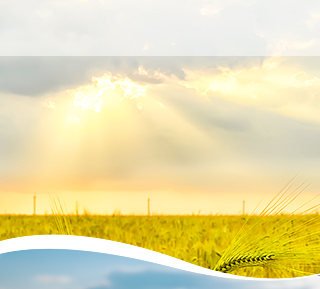
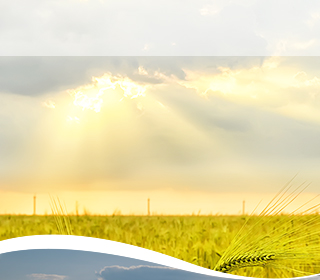
alteração bg mobile

diff --git a/css/screen.css b/css/screen.css
@@ -3,13 +3,13 @@
         background-image: url('https://siapagro.com/img/home_siap_01_mobile.jpg');
     }
     .txt-sobre{
-        background-image: url('https://siapagro.com/img/home_siap_02.jpg');
+        background-image: url('https://siapagro.com/img/home_siap_02_mobile.jpg');
     }
     .fazenda-foto{
         background-image: url('https://siapagro.com/img/home_siap_03_mobile.jpg');
     }
     #sobre-fazenda{
-        background-color: #37493e !important;
+        background-color: #36473d !important;
     }
 
 }
@@ -36,14 +36,14 @@
         height: 150px;
     }
     .txt-header{
-        height: 220px;
+        height: 280px;
     }
     .txt-header p{
         color: #fff;
         line-height: 18px;
     }
     .txt-sobre{
-        height: 300px;
+        height: 280px;
     }
     .txt-header h1{
         font-size: 18px;
